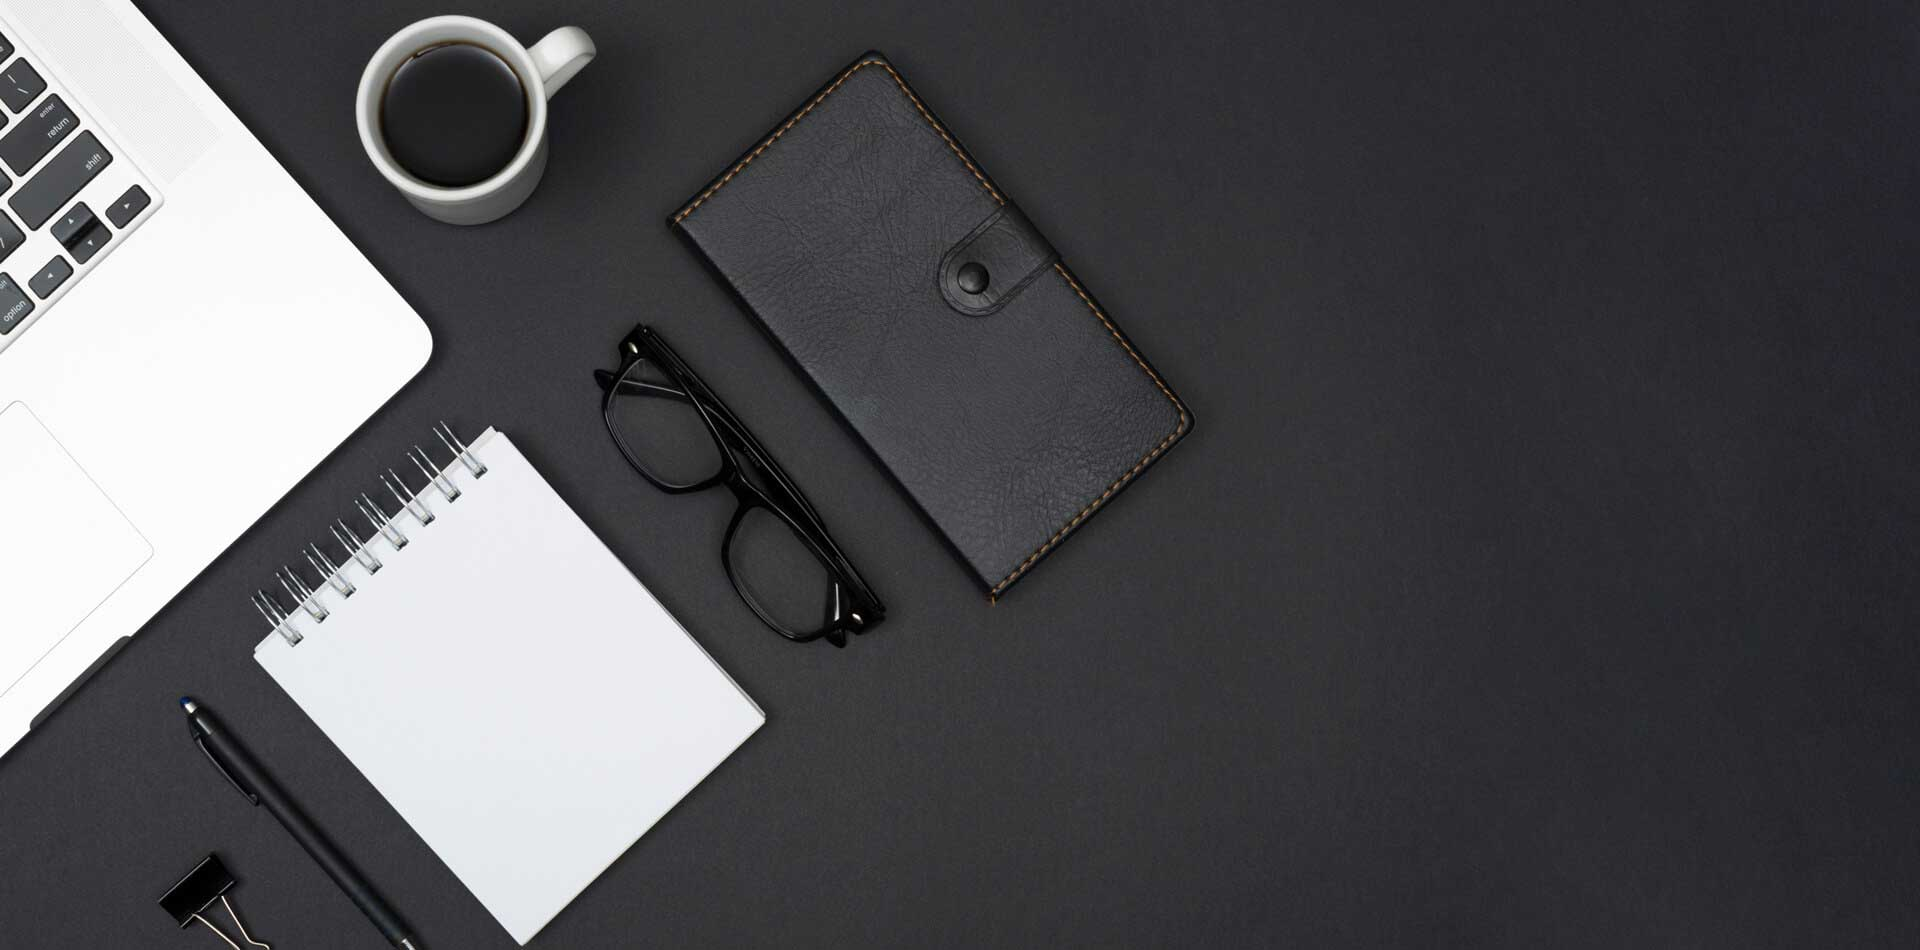
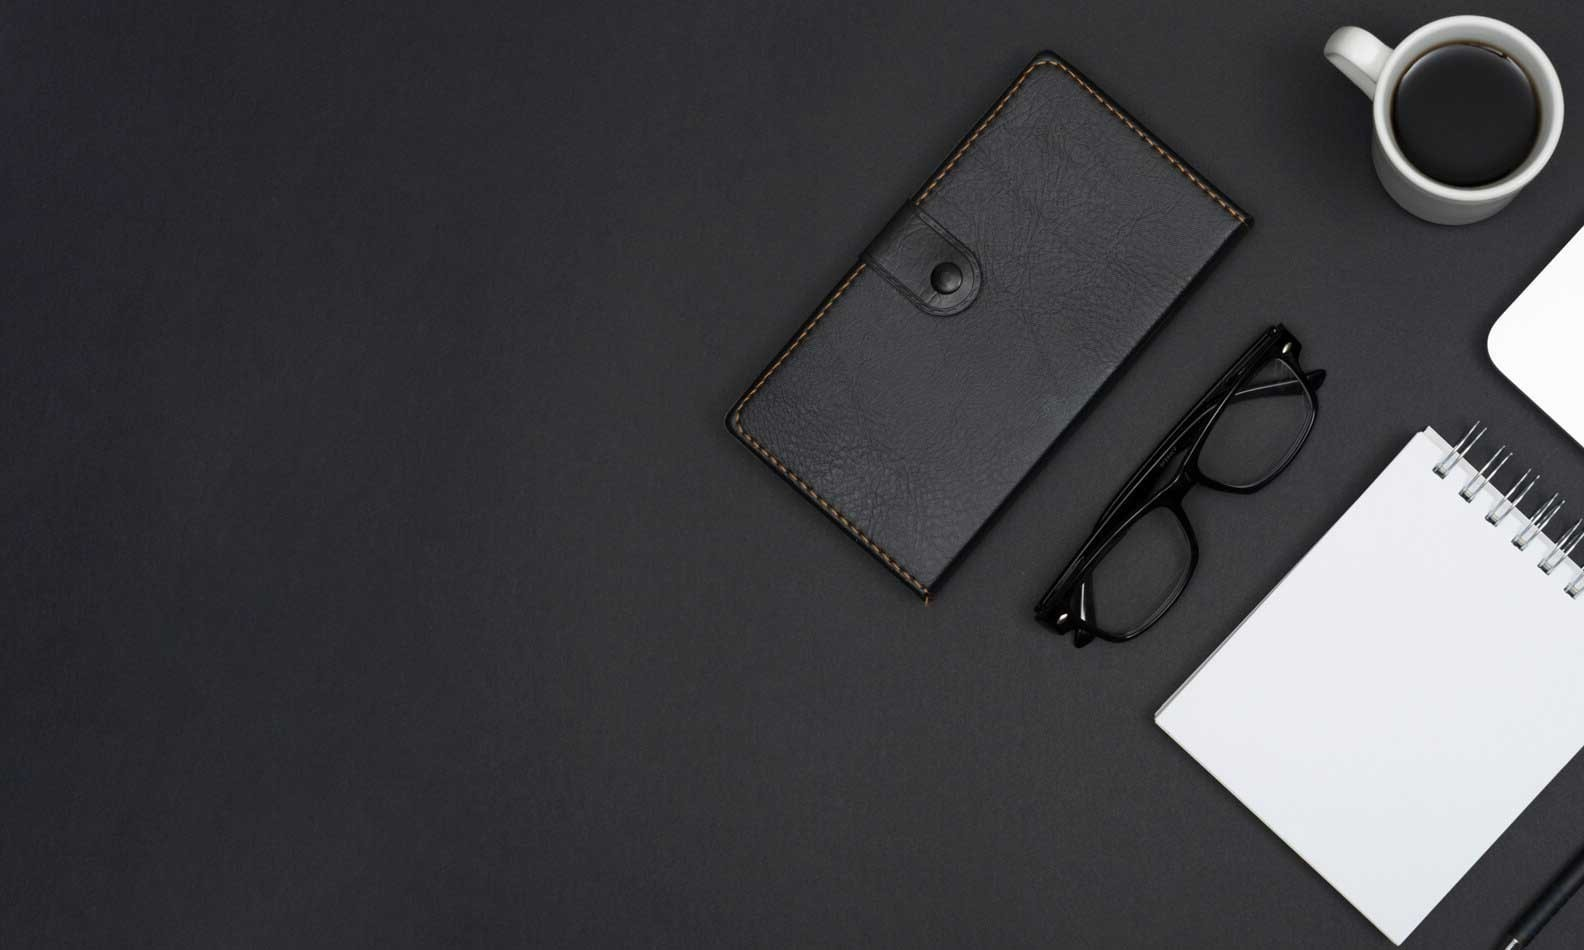
fix bg Image, Styling

diff --git a/src/dark/PortfolioLanding.jsx b/src/dark/PortfolioLanding.jsx
@@ -39,14 +39,13 @@ const PortfolioLanding = () => {
                                     <div className="col-lg-12">
                                         <div className={`inner ${value.textPosition}`}>
                                             {value.category ? <span>{value.category}</span> : ''}
-                                            <h1 className="title">Hi, I’m Jone Doe <br/>
+                                            <h1 className="title">Hi, I’m Annel <br/>
                                             <TextLoop>
                                                 <span> JS Developer.</span>
                                                 <span> UI/UX Designer.</span>
-                                                <span> Content Writter.</span>
                                             </TextLoop>{" "}
                                             </h1>
-                                            <h2>based in USA.</h2>
+                                            
                                             {value.description ? <p className="description">{value.description}</p> : ''}
                                             {value.buttonText ? <div className="slide-btn"><a className="rn-button-style--2 btn-primary-color" href={`${value.buttonLink}`}>{value.buttonText}</a></div> : ''}
                                         </div>
@@ -68,7 +67,7 @@ const PortfolioLanding = () => {
                             <div className="row row--35 align-items-center">
                                 <div className="col-lg-5">
                                     <div className="thumbnail">
-                                        <img className="w-100" src="/assets/images/about/about-8.jpg" alt="About Images"/>
+                                        <img className="w-100" src="/assets/images/about/annel.jpg" alt="About Images"/>
                                     </div>
                                 </div>
                                 <div className="col-lg-7">
@@ -119,50 +118,7 @@ const PortfolioLanding = () => {
             </div>
             {/* End Portfolio Area */}
 
-            {/* Start Blog Area */}
-            <div id="blog" className="fix">
-                <div className="rn-blog-area ptb--120 bg_color--5 mb-dec--30">
-                    <div className="container">
-                        <div className="row align-items-end">
-                            <div className="col-lg-12 col-md-12 col-sm-12 col-12">
-                                <div className="section-title text-center">
-                                    <h2>Latest News</h2>
-                                    <p>There are many variations of passages of Lorem Ipsum available, <br />but the majority have suffered alteration.</p>
-                                </div>
-                            </div>
-                        </div>
-                        <div className="row mt--60 mt_sm--40">
-                            {PostList.map((value , i ) => (
-                                <div className="col-lg-4 col-md-6 col-12" key={i}>
-                                    <div className="blog blog-style--1">
-                                        <div className="thumbnail">
-                                            <a href="/blog-details">
-                                                <img className="w-100" src={`/assets/images/blog/blog-${value.images}.jpg`} alt="Blog Images"/>
-                                            </a>
-                                        </div>
-                                        <div className="content">
-                                            <p className="blogtype">{value.category}</p>
-                                            <h4 className="title"><a href="/blog-details">{value.title}</a></h4>
-                                            <div className="blog-btn">
-                                                <a className="rn-btn text-white" href="/blog-details">Read More</a>
-                                            </div>
-                                        </div>
-                                    </div>
-                                </div>
-                            ))}
-                        </div>    
-                    </div>    
-                </div>
-            </div>
-            {/* End Blog Area */}
-
-            {/* Start COntact Area */}
-            <div id="contact" className="fix">
-                <div className="rn-contact-area ptb--120 bg_color--1">
-                    <ContactThree contactImages="/assets/images/about/about-9.jpg" contactTitle="Hire Me." />
-                </div>
-            </div>
-            {/* End COntact Area */}
+            
 
             <FooterTwo />
             {/* Start Back To Top */}

diff --git a/src/index.js b/src/index.js
@@ -40,10 +40,6 @@ class Root extends Component{
                         <Route exact path={`${process.env.PUBLIC_URL}/portfolio-details`} component={PortfolioDetails}/>
                         <Route exact path={`${process.env.PUBLIC_URL}/blog`} component={Blog}/>
                         <Route exact path={`${process.env.PUBLIC_URL}/blog-details`} component={BlogDetails}/>
-
-                        
-
-                        
                         <Route path={`${process.env.PUBLIC_URL}/404`} component={error404}/>
                         <Route component={error404}/>
 

diff --git a/public/assets/scss/template/_dark-version.scss b/public/assets/scss/template/_dark-version.scss
@@ -107,7 +107,7 @@
     }
     .bg_image--25 {
         background-color: #101010;
-        background-image: url(/assets/images/bg/bg-image-28.jpg) !important;
+        background-image: url(/assets/images/bg/bg-image-24.jpg) !important;
         background-position: center center;
         background-repeat: no-repeat;
         background-size: cover;

diff --git a/public/index.html b/public/index.html
@@ -19,7 +19,7 @@
       work correctly both with client-side routing and a non-root public URL.
       Learn how to configure a non-root public URL by running `npm run build`.
     -->
-    <title>TryDo || Creative Agency And Multi-purpose React Template</title>
+    <title>Annel Rashka Perdana</title>
 
   </head>
 

diff --git a/public/assets/scss/elements/_portfolio.scss b/public/assets/scss/elements/_portfolio.scss
@@ -63,7 +63,7 @@
         transition: transform .28s ease;
         z-index: 4;
         &.image-1{
-            background-image: url(/assets/images/portfolio/portfolio-1.jpg);
+            background-image: url(/assets/images/portfolio/nyampah.jpg);
         }
 
         &.image-2{

diff --git a/src/elements/portfolio/PortfolioList.jsx b/src/elements/portfolio/PortfolioList.jsx
@@ -5,7 +5,7 @@ const PortfolioListContent = [
     {
         image: 'image-1',
         category: 'Development',
-        title: 'Getting tickets to the big show'
+        title: 'Ecommerce website : Nyampah.co'
     },
     {
         image: 'image-2',

diff --git a/src/elements/portfolio/PortfolioGalleryPopup.jsx b/src/elements/portfolio/PortfolioGalleryPopup.jsx
@@ -7,7 +7,7 @@ const PortfolioList = [
     {
         image: 'image-1',
         category: 'Development',
-        title: 'Getting tickets to the big show'
+        title: 'Ecommerce website : Nyampah.co'
     },
     {
         image: 'image-2',
